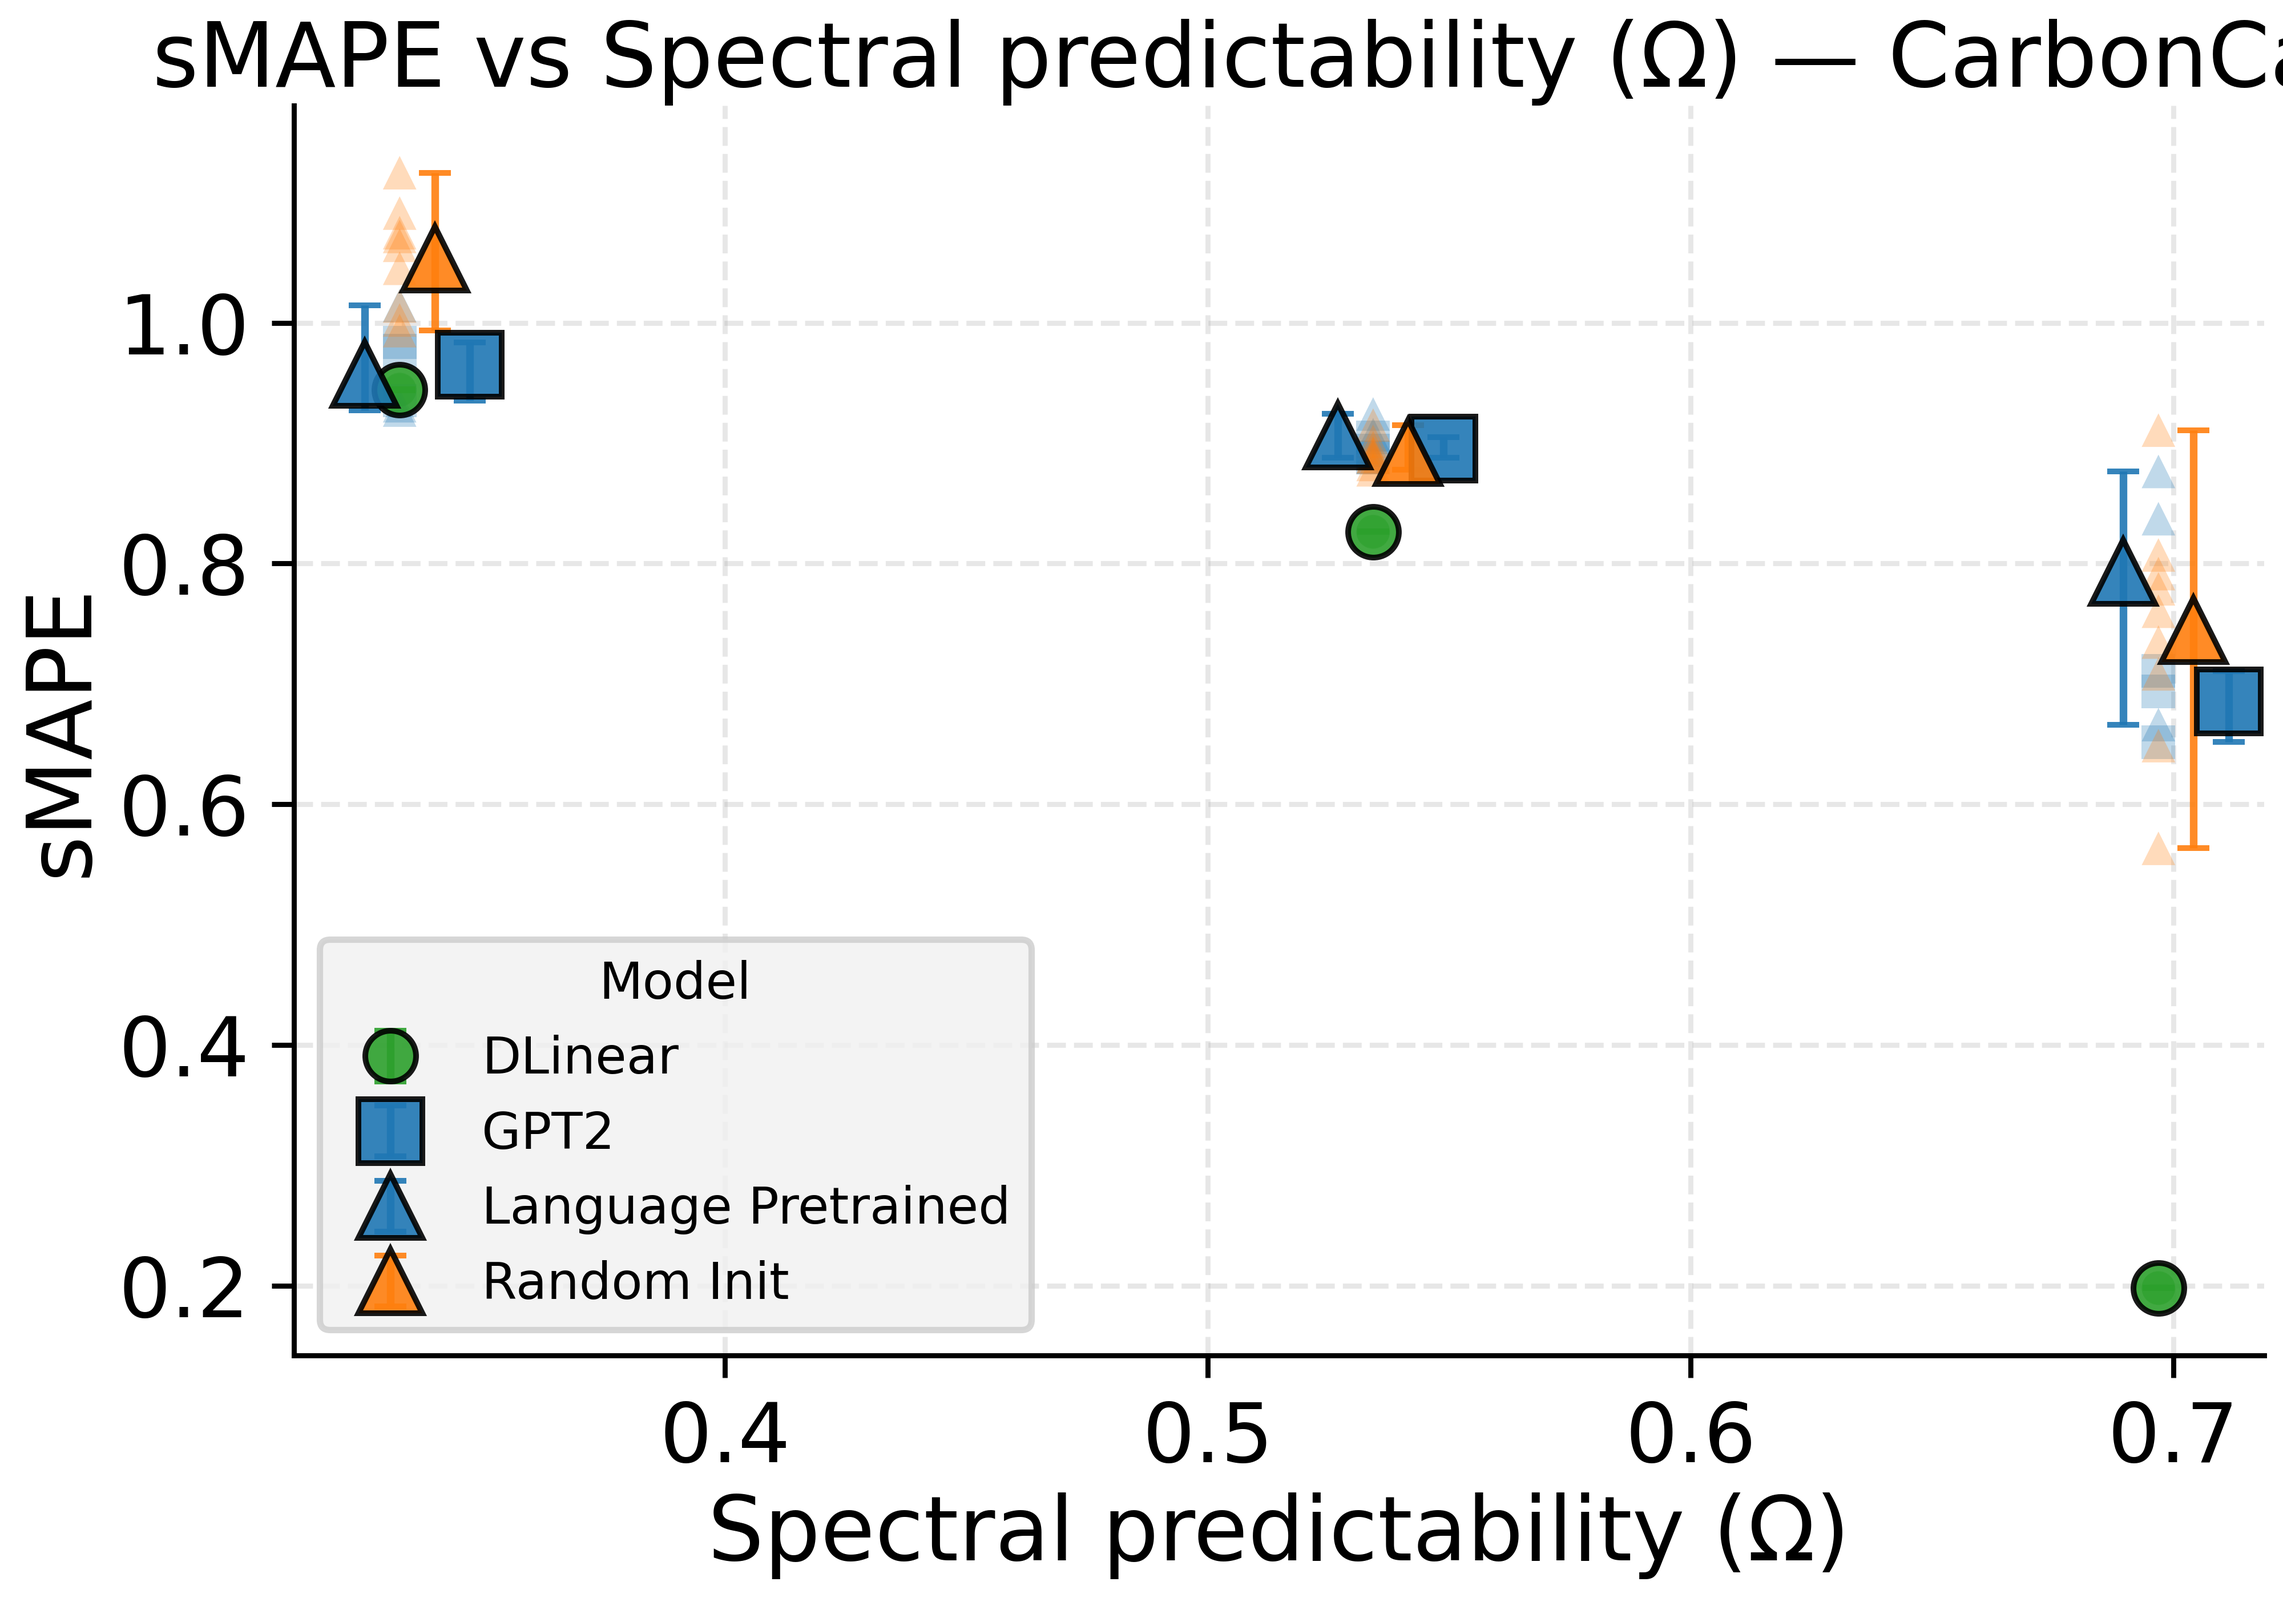
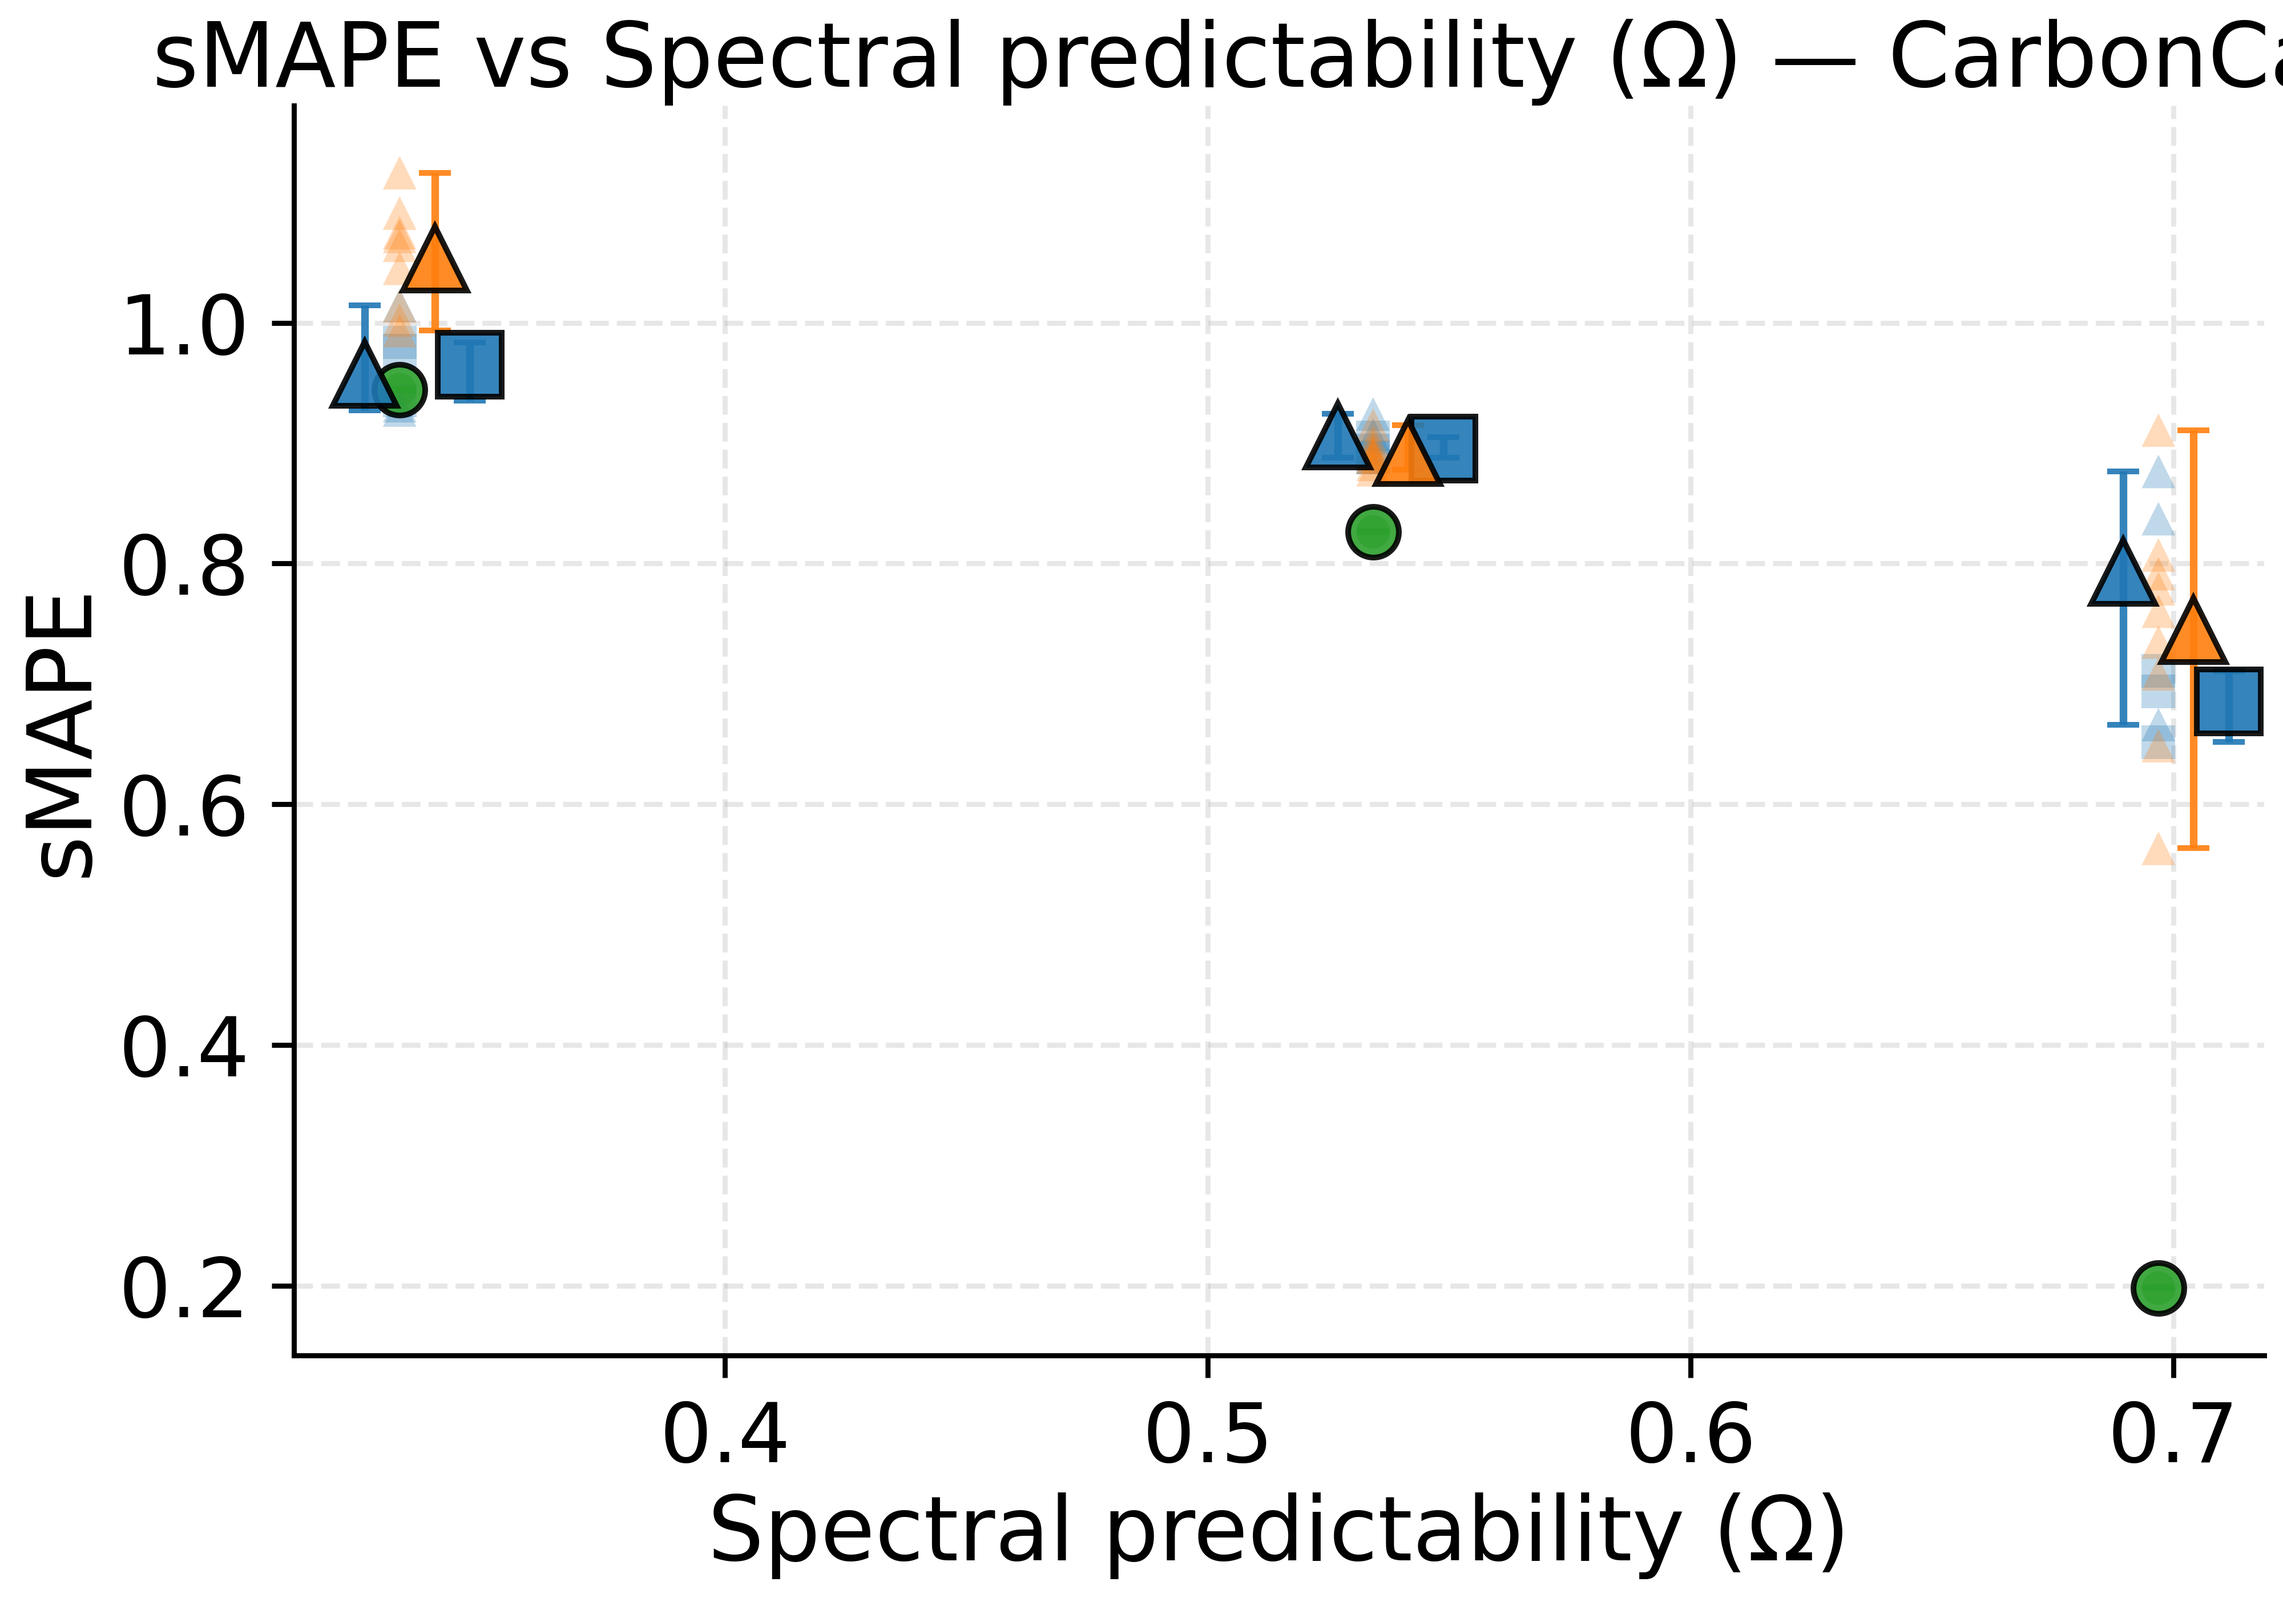
tricky legends

Changed region(s): [[0.125, 0.6214, 0.4688, 0.8389], [0.1562, 0.5593, 0.4375, 0.6214], [0.2188, 0.6525, 0.3125, 0.7146]]

diff --git a/TimeLLM/results_automate/graph_spectral.py b/TimeLLM/results_automate/graph_spectral.py
@@ -387,8 +387,8 @@ def plot_by_model_metric(df_raw: pd.DataFrame,
     ax.set_xlabel(x_metric_label, labelpad=2)
     ax.set_ylabel(y_label, labelpad=2)
     ax.set_title(title, pad=2)
-    if used:
-        ax.legend(title="Model", fontsize=legend_font, title_fontsize=legend_font, loc="best", frameon=True, facecolor="#F0F0F0")
+    #if used:
+        #ax.legend(title="Model", fontsize=legend_font, title_fontsize=legend_font, loc="best", frameon=True, facecolor="#F0F0F0")
 
     # tighter limits & margins to reduce whitespace
     if x_vals.size:
@@ -909,7 +909,7 @@ def main():
     ap.add_argument("--dpi", type=int, default=800, help="Figure DPI.")
     ap.add_argument("--font", type=int, default=14, help="Base font size.")
     ap.add_argument("--tick-font", type=int, default=13, help="Tick label font size.")
-    ap.add_argument("--legend-font", type=int, default=8, help="Legend font size.")
+    ap.add_argument("--legend-font", type=int, default=12, help="Legend font size.")
     ap.add_argument("--x-margin", type=float, default=0.06, help="Fractional x padding of data span.")
     ap.add_argument("--y-margin", type=float, default=0.06, help="Fractional y padding of data span.")
     ap.add_argument("--tight-bbox", action="store_true",
